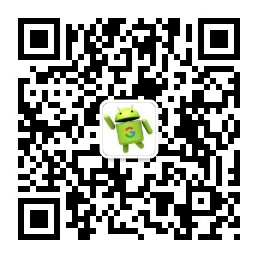
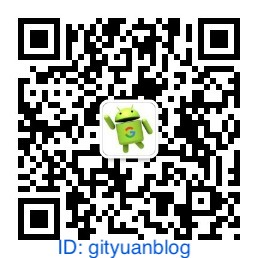
update

Changed region(s): [[0.3411, 0.9302, 0.7442, 1.0], [0.2171, 0.8992, 0.3101, 0.9922]]

diff --git a/_includes/article_bottom.html b/_includes/article_bottom.html
@@ -1,12 +1,14 @@
+<font color="#004B97"><strong>微信公众号 </strong></font>
+<a target="_blank" href="http://gityuan.com/images/about-me/damoyuan.jpg">
+	<font color="#f57e42"><strong>Android达摩院</strong></font>
+</a>
+
+<font color="#004B97"><strong> | 微博</strong></font>
 <a target="_blank" href="http://weibo.com/gityuan">
 	<font color="#f57e42"><strong>weibo.com/gityuan</strong></font>
 </a>
-<font color="#004B97"><strong>微博关注  |  </strong></font>
 
+<font color="#004B97"><strong> | 博客</strong></font>
 <a target="_blank" href="http://gityuan.com/talk/">
-	<font color="#f57e42"><strong>留言区</strong></font>
-</a>
-<font color="#004B97"><strong>技术交流  |  </strong></font>
-<a target="_blank" href="http://gityuan.com/images/about-me/gityuan_pay.jpg">
-	<font color="#f57e42"><strong>¥打赏支持</strong></font>
+	<font color="#f57e42"><strong>留言区交流</strong></font>
 </a>

diff --git a/about.html b/about.html
@@ -33,7 +33,7 @@ header-img: "img/nav-about.jpg"
         </li>
         <li>微信公众号：
             <a target="_blank" href="http://gityuan.com/images/about-me/damoyuan.jpg">
-                Android达摩院
+                Android达摩院（ID:gityuanblog）
             </a>
         </li>
         <li>电子邮件：

diff --git a/ongoing/learning_way.md b/ongoing/learning_way.md
@@ -1,0 +1,13 @@
+个人成长史
+
+兴趣
+
+学习： 自学，自问自答， 后台经常有人问我有些具体问题，我没有那么多精力，也是好的方式。
+
+灯塔，终局思维，破局
+
+”得麒麟才子可得天下“
+
+工程思维
+
+公司：做正确的事，而不是容易的事
